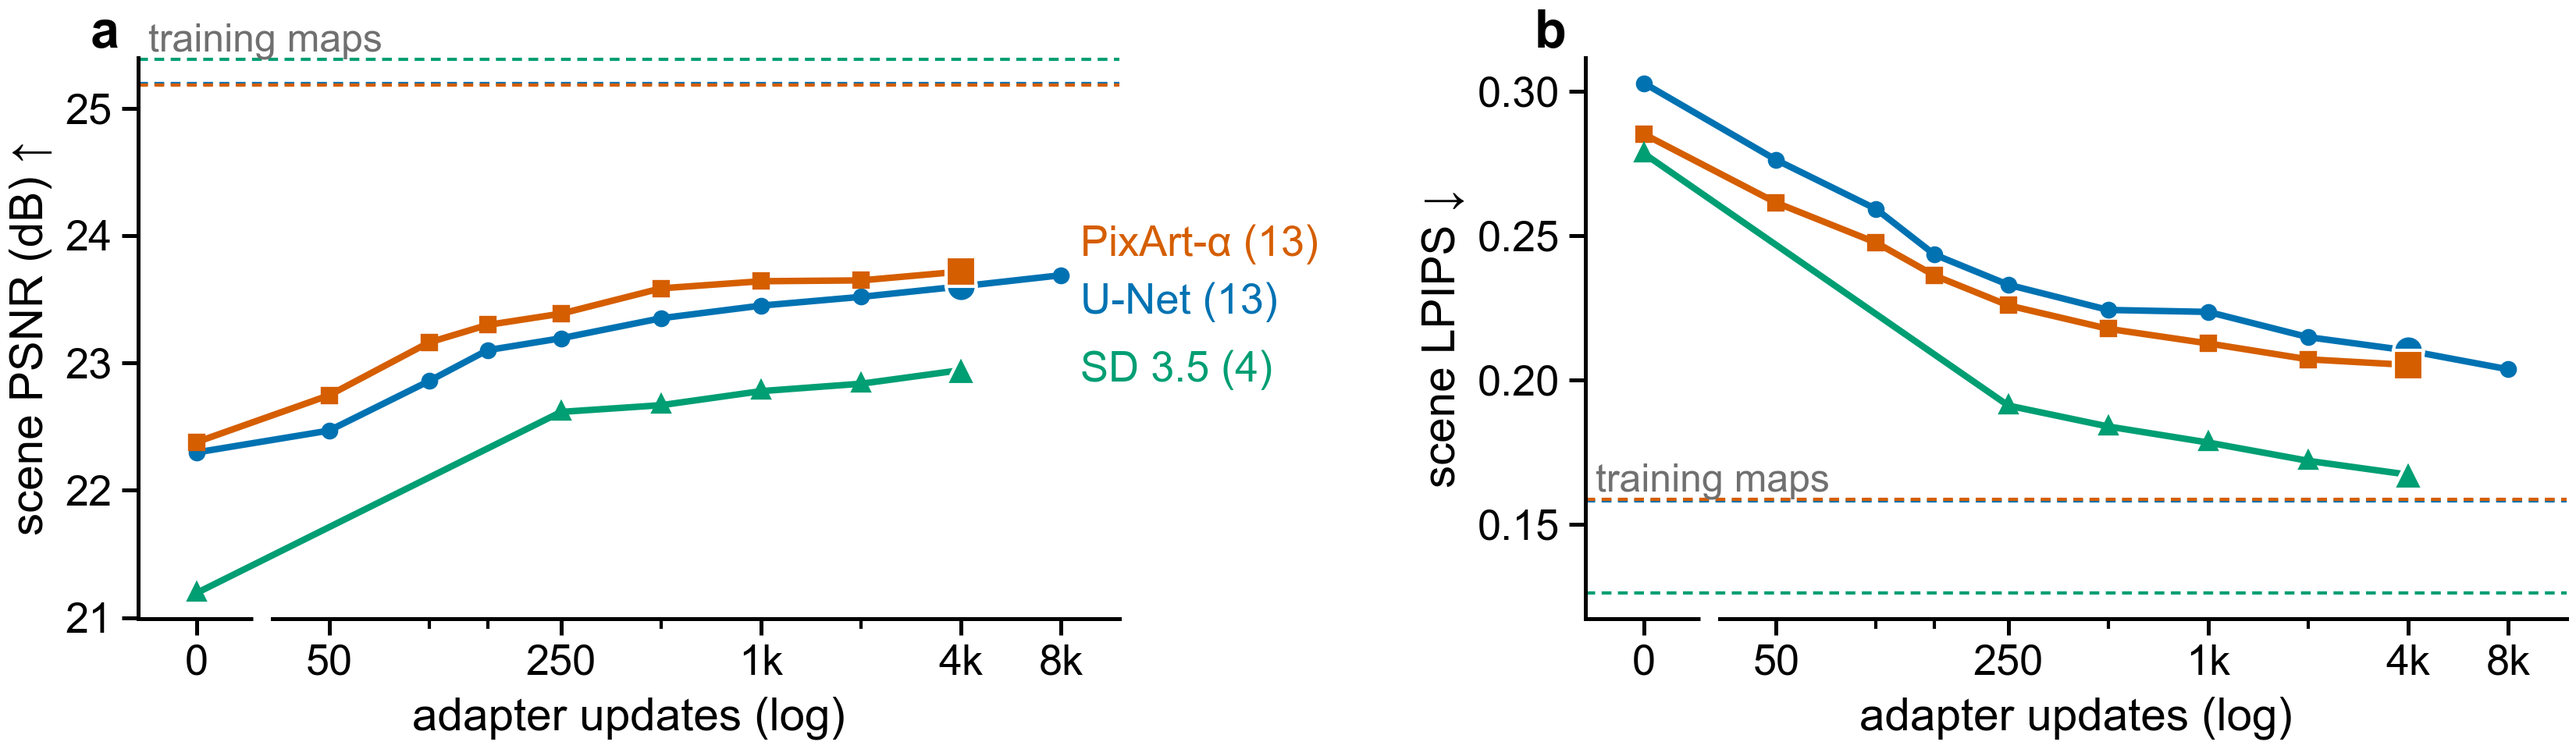
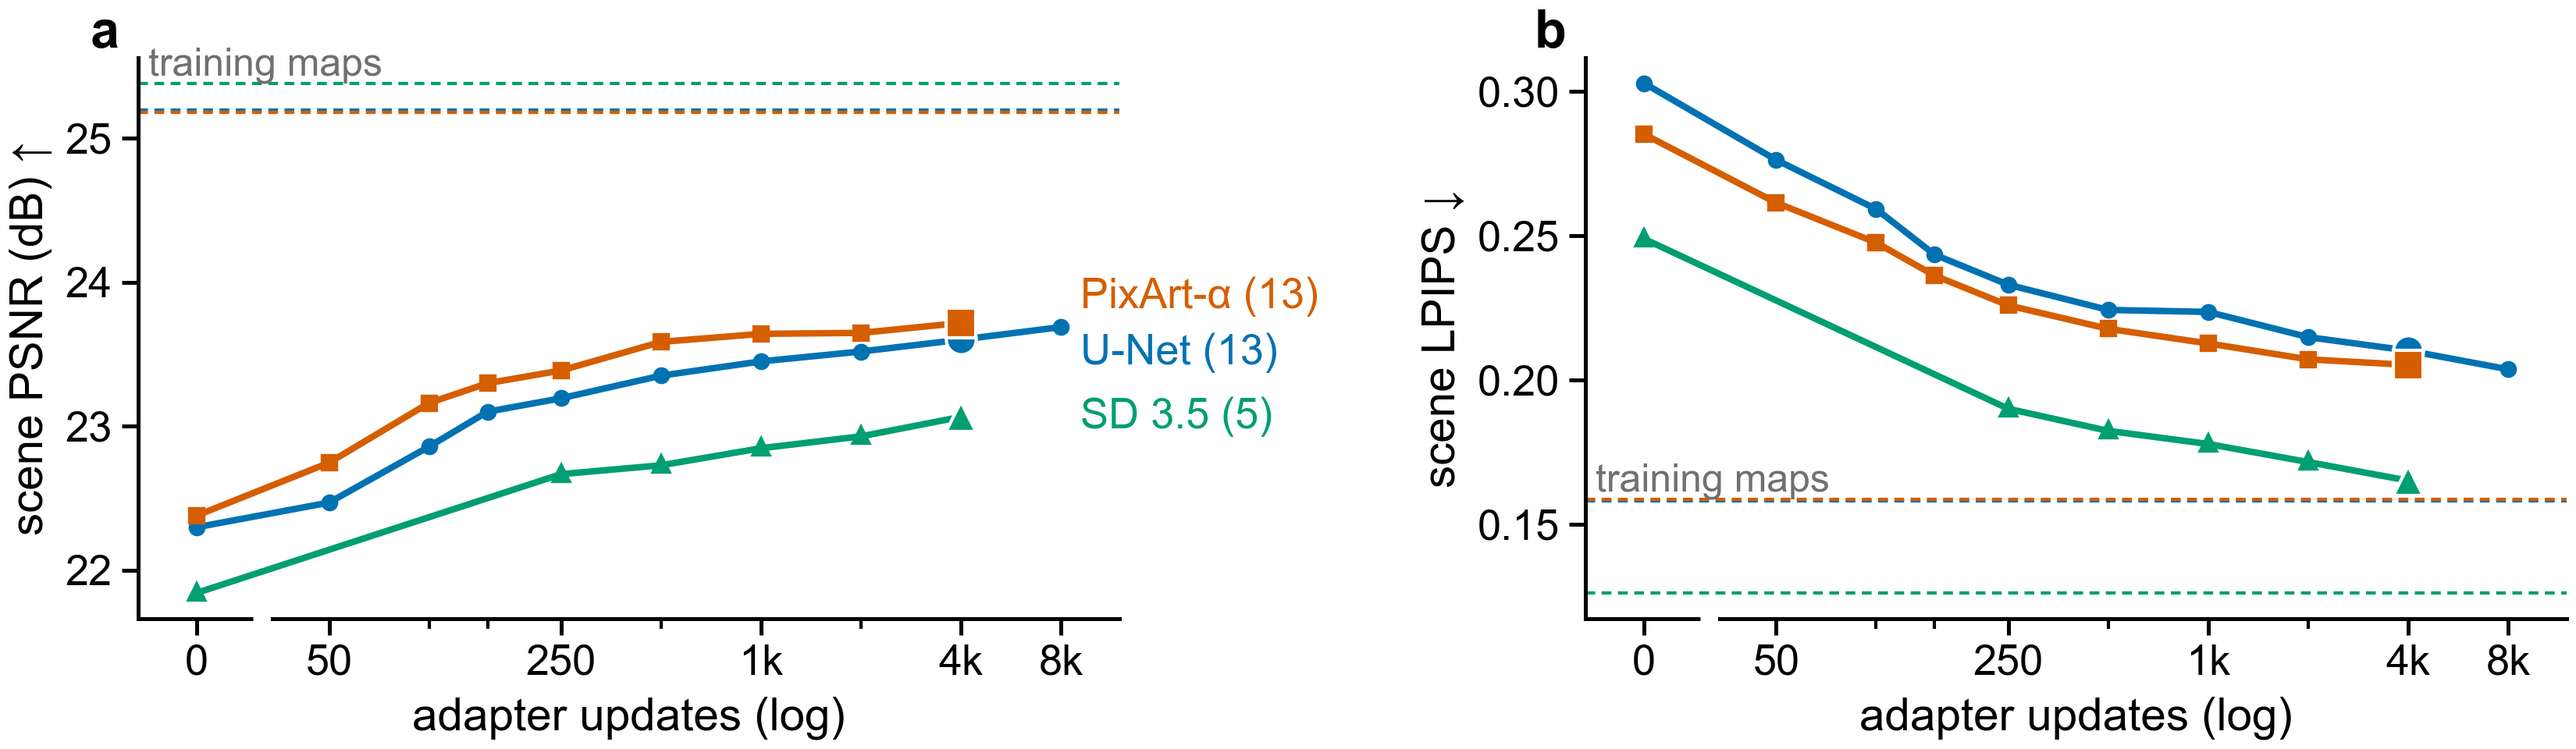
regenerate the raw set with the at-most-4k full fine-tune budget and sd 3.5 arena 11
(cherry picked from commit f5785c23f4fa06c63596d722e00f63889ca0c3a8)

diff --git a/docs/figure_review/index.html b/docs/figure_review/index.html
@@ -53,9 +53,9 @@ svg text{font-family:"IBM Plex Sans",sans-serif}
 <p class="note"><b>Does the step survive?</b> In LPIPS, yes, for all three backbones: every arena is worse than every training map, by a margin of 0.050 (U-Net), 0.049 (PixArt-&alpha;) and 0.091 (SD 3.5, now at 200k through its fine-tuned decoder; 0.083 at 170k through the stock one). In raw PSNR, no. Arenas 8, 9 and 10 (24.7 dB) score above training maps 3 and 5 (24.5 and 23.5 dB), for every backbone (margins &minus;1.17, &minus;1.26, &minus;1.20 dB; for SD&nbsp;3.5 the arenas read 24.7 to 24.9 and training maps 3 and 5 24.6 and 23.7). The family medians still differ by 2.6 dB (24.9 against 22.3 for the U-Net). Raw PSNR carries each map's own difficulty, which the persistence normalisation removed. Within the arenas, <i>d</i> orders nothing: Spearman &minus;0.07, &minus;0.16, &minus;0.19 with PSNR and &minus;0.19, &minus;0.21, +0.23 with LPIPS.</p>
 
 <h2>Backbones: the adapter on U-Net, PixArt-&alpha; and SD&nbsp;3.5 (Monday 07:35 EDT) <span class="tag mockt">option</span></h2>
-<p>Median raw scene PSNR (a) and LPIPS (b) against adapter updates for each backbone's LoRA, from <code>figures/raw/</code> (5.5 by 1.6 in each). Filled mark: 4k updates. Dashed lines: each backbone's training maps, SD&nbsp;3.5's at 200k through its fine-tuned decoder (25.38&nbsp;dB, LPIPS 0.126; since 08:50). Both panels are redrawn when the next batch of runs arrives. PixArt-&alpha; is complete on all 13 arenas and SD&nbsp;3.5 on 4 (6, 7, 8, 16); Superman's nine SD&nbsp;3.5 arenas are still to come. The full fine-tune (arena 8 so far) is drawn only on the shared panel, once it covers the shared arenas.</p>
-<figure><img src="img/print_raw_backbones.png" alt="backbone adaptation panel, every scored arena" style="width:5.5in;max-width:100%"><figcaption><b>Every scored arena</b> (<code>raw_backbones.pdf</code>): each curve averages its own arenas, U-Net and PixArt-&alpha; all 13 and SD&nbsp;3.5 four (6, 7, 8, 16), so the SD&nbsp;3.5 curve is not comparable with the other two.</figcaption></figure>
-<figure><img src="img/print_raw_backbones_shared.png" alt="backbone adaptation panel, shared arenas" style="width:5.5in;max-width:100%"><figcaption><b>Shared arenas only</b> (<code>raw_backbones_shared.pdf</code>): every curve averages the same arenas, the ones all three backbones have scored (today 6, 7, 8 and 16). On these, the three reach 22.9 to 23.0&nbsp;dB at 4k (U-Net 22.89, PixArt-&alpha; 22.98, SD&nbsp;3.5 22.94). SD&nbsp;3.5 starts lowest (21.19&nbsp;dB) and ends with the lowest LPIPS (0.167, against 0.209 and 0.202).</figcaption></figure>
+<p>Median raw scene PSNR (a) and LPIPS (b) against adapter updates for each backbone's LoRA, from <code>figures/raw/</code> (5.5 by 1.6 in each). Filled mark: 4k updates. Dashed lines: each backbone's training maps, SD&nbsp;3.5's at 200k through its fine-tuned decoder (25.38&nbsp;dB, LPIPS 0.126; since 08:50). Both panels are redrawn when the next batch of runs arrives. PixArt-&alpha; is complete on all 13 arenas and SD&nbsp;3.5 on 5 (6, 7, 8, 11, 16); eight of Superman's nine SD&nbsp;3.5 arenas are still to come. The full fine-tune (arena 8 so far; its budget prints as ${\le}$4k because it is scored only at 0 and 4k) is drawn only on the shared panel, once it covers the shared arenas.</p>
+<figure><img src="img/print_raw_backbones.png" alt="backbone adaptation panel, every scored arena" style="width:5.5in;max-width:100%"><figcaption><b>Every scored arena</b> (<code>raw_backbones.pdf</code>): each curve averages its own arenas, U-Net and PixArt-&alpha; all 13 and SD&nbsp;3.5 five (6, 7, 8, 11, 16), so the SD&nbsp;3.5 curve is not comparable with the other two.</figcaption></figure>
+<figure><img src="img/print_raw_backbones_shared.png" alt="backbone adaptation panel, shared arenas" style="width:5.5in;max-width:100%"><figcaption><b>Shared arenas only</b> (<code>raw_backbones_shared.pdf</code>): every curve averages the same arenas, the ones all three backbones have scored (today 6, 7, 8, 11 and 16). On these, the three reach 23.0 to 23.1&nbsp;dB at 4k (U-Net 23.00, PixArt-&alpha; 23.08, SD&nbsp;3.5 23.06). SD&nbsp;3.5 starts lowest (21.84&nbsp;dB) and ends with the lowest LPIPS (0.165, against 0.205 and 0.196).</figcaption></figure>
 <h2>The draft's figures at print size (15:00 EDT) · as set in the four-page draft (main af1de44) <span class="tag paper">paper</span></h2>
 <p>Each figure is drawn at its slot size and placed at scale 1. On screen it is shown at its printed width (5.5 in is the full text width), so its type appears at print size: 6.5 to 7 pt labels, 6 pt numbers. Captions are the draft's.</p>
 <figure><img src="img/print_fig_teaser_B.png" alt="Figure 1 print" style="width:5.5in;max-width:100%"><figcaption><b>Figure 1</b> (<code>fig_teaser_B.pdf</code>, 5.5 by 1.5 in). On an unseen arena the U-Net keeps moving and firing but renders the arena in training-map masonry; eight episodes restore it. Left, training maps 5 and 3 (in distribution); right, unseen arena 7 zero-shot and after 4k adapter updates on 8 episodes. Selected windows, rolled out 16 tics past the context frame with the row's button held throughout; fine-tuned decoder, raw ground truth, scene PSNR; persistence scores 16 to 19&nbsp;dB on these windows. <i>(The draft's caption says "a training map"; with two maps it becomes "training maps 5 and 3".)</i></figcaption></figure>

diff --git a/paper/tables/tuned/adapt_groups.tex b/paper/tables/tuned/adapt_groups.tex
@@ -15,12 +15,12 @@ Easy (1, 6, 12, 16) & 22.69 & 23.56 & 23.58 & 26.54 & 0.344 & 0.210 & 0.201 & 10
 All 13 & 22.30 & 23.60 & 23.69 & 27.32 & 0.303 & 0.210 & 0.204 & 150 \\
 \midrule
 U-Net LoRA (6, 7, 8, 16) & 21.71 & 22.88 & 22.92 & 26.69 & 0.292 & 0.209 & 0.201 & 100--250 \\
-U-Net full fine-tune (1 of 4) & 24.65 & 25.86 & -- & 29.61 & 0.281 & 0.185 & -- & 4k \\
+U-Net full fine-tune (1 of 4) & 24.65 & 25.86 & -- & 29.61 & 0.281 & 0.185 & -- & ${\le}$4k \\
 PixArt-$\alpha$ LoRA (all 13) & 22.38 & 23.72 & -- & 27.32 & 0.285 & 0.205 & -- & 150 \\
-SD 3.5 LoRA (4 of 13) & 21.19 & 22.94 & -- & 30.18 & 0.278 & 0.167 & -- & 250 \\
+SD 3.5 LoRA (5 of 13) & 21.84 & 23.06 & -- & 31.04 & 0.249 & 0.165 & -- & 250 \\
 \bottomrule
 \end{tabular}
 % U-Net LoRA (6, 7, 8, 16): arenas 6, 7, 8, 16; decoder sha256:21b26edf65b301e0685b3b24ddbe29e379a6c2f54ac60b9c516e8f635b38f646, reads raw, 4 arenas
-% U-Net full fine-tune (1 of 4): arenas 8; decoder sha256:21b26edf65b301e0685b3b24ddbe29e379a6c2f54ac60b9c516e8f635b38f646, reads raw, 1 arenas; zero-shot of arenas 8 from the U-Net LoRA's step 0 (the same checkpoint and windows)
+% U-Net full fine-tune (1 of 4): arenas 8; decoder sha256:21b26edf65b301e0685b3b24ddbe29e379a6c2f54ac60b9c516e8f635b38f646, reads raw, 1 arenas; zero-shot of arenas 8 from the U-Net LoRA's step 0 (the same checkpoint and windows); budget grid 0 and 4k only: ${\le}$4k means reached by 4k, the rule cannot resolve finer
 % PixArt-$\alpha$ LoRA (all 13): arenas 1, 6, 7, 8, 9, 10, 11, 12, 13, 14, 15, 16, 17; decoder sha256:21b26edf65b301e0685b3b24ddbe29e379a6c2f54ac60b9c516e8f635b38f646, reads raw, 13 arenas
-% SD 3.5 LoRA (4 of 13): arenas 6, 7, 8, 16; decoder sha256:a8d22f2af42b10dd322ce0fa823403cedbe350b6375150d2e9a22a600add1d05, reads raw, 4 arenas
+% SD 3.5 LoRA (5 of 13): arenas 6, 7, 8, 11, 16; decoder sha256:a8d22f2af42b10dd322ce0fa823403cedbe350b6375150d2e9a22a600add1d05, reads raw, 5 arenas
